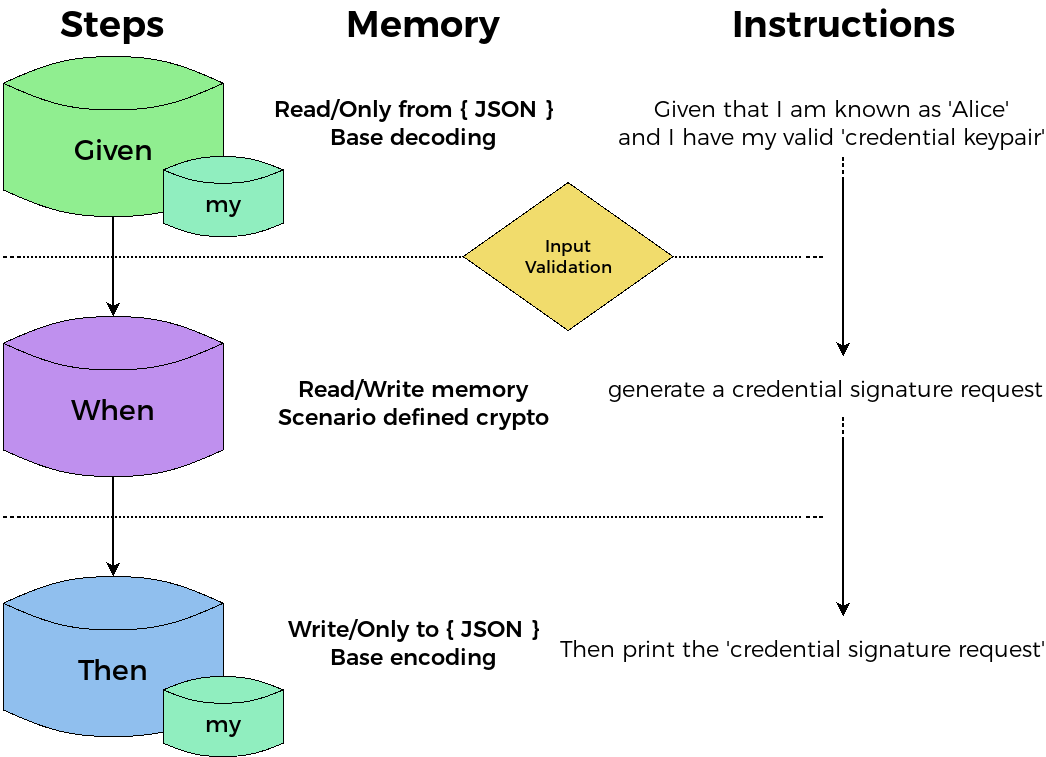
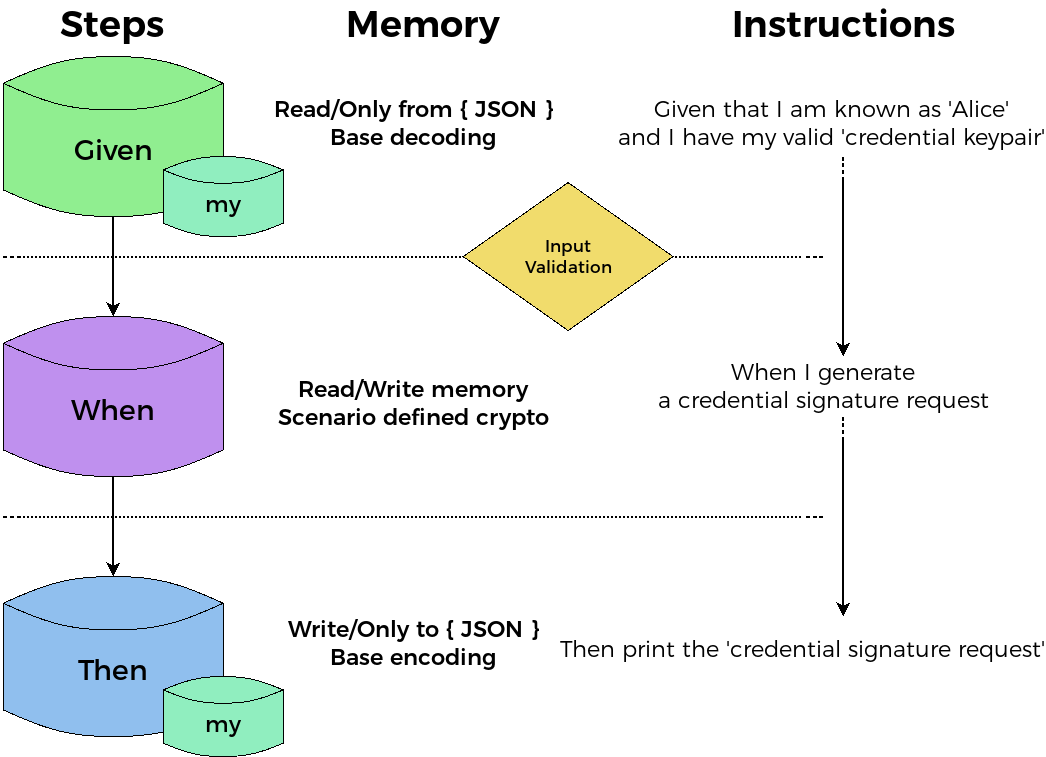
minor docs updates

Changed region(s): [[0.5813, 0.4861, 1.0, 0.5469]]

diff --git a/TODO.md b/TODO.md
@@ -11,14 +11,37 @@ for position, for instance ECP multiplication needs to have the BIG
 number always as second argument. Instead of returning error we should
 check the type and reposition the arguments accordingly.
 
+
+## Review
+
+IV fine - if key is always different IV is not needed
+for reusal of the key then IV needs to be random (or a counter)
+
+
+RNG -> fortuna
+
+ECDH keylen 16<k>64
+
+ecdh_aead_encrypt limit key size to 32 bytes (256 bit)
+accepted values to aes: 128 192 256
+
+
+
+https://github.com/DECODEproject/Zenroom/blob/master/lib/milagro-crypto-c/src/ecdh.c.in#L71
+
+co-factor of a curve
+instead of checking always if point is part of curve
+multiple of co-factors 
+
+
 ## Low-hanging
 
 - memory locking with controls at switch Given (r/o) -> When (r/w) -> Then (w/o)
 - variable wiping with content overwriting in GC
 - DATA and KEYS wiping in Zencode
-- adopt finite state machine in Zencode parser
+X adopt finite state machine in Zencode parser
 - wipe previous memory block in Zencode
-- load multiple scenarios, build `documentation` scenario with ZEN.callback
+X load multiple scenarios, build `documentation` scenario with ZEN.callback
 
 ## Benchmarking
 
@@ -38,8 +61,8 @@ perf report
 Take DATA inside Zencode without parsing from JSON
 - fast detect if JSON: `[` or `{` as first char
 - fast detect of type by 3 char prefix: `u64:` or `b64:`
-- read into IN with name of prefix (data schema)
-- insure that parsing to ACK implies only one memcpy to octet
+X read into IN with name of prefix (data schema)
+X insure that parsing to ACK implies only one memcpy to octet
 
 
 

diff --git a/docs/website/docs/zencode.md b/docs/website/docs/zencode.md
@@ -80,15 +80,17 @@ the integrity of the message is kept intact and that she signed it.
 
 # Memory model
 
-By now should be clear that a Zencode contract operates on data in 3 phases: 1: **Given** -> 2: **When** -> 3: **Then**
+Zencode contracts operate in 3 phases:
 
-1. reads an input
-2. processes its contents
-3. prints out the results
+1. **Given** - validates the input
+2. **When** - processes the contents
+3. **Then** - prints out the results
 
-The 3 separate blocks of code also correspond to 3 memory areas.
+The 3 separate blocks of code also correspond to 3 separate memory areas, sealed by some security measures.
 
 ![Zencode documentation diagram](img/zencode_diagram.png)
+
+All data processed has first to pass the validation phase according to scenario specific data schemas.
 
 # List of statements
 

diff --git a/docs/website/docs/README.md b/docs/website/docs/README.md
@@ -24,7 +24,7 @@ available on:
 </span>
 
 <span class="big">
-<span class="mdi mdi-school"></span> Whitepaper: [Zencode by Denis Roio (Ph.D)](https://files.dyne.org/zenroom/Zenroom_Whitepaper.pdf)
+<span class="mdi mdi-school"></span> Whitepaper: [Zencode by Jaromil](https://files.dyne.org/zenroom/Zenroom_Whitepaper.pdf)
 </span>
 
 <span class="mdi mdi-hand"></span> Blog post: [Why Zenroom? Algorithmic Sovereignty](https://decodeproject.eu/blog/algorithmic-sovereignty-decode)
